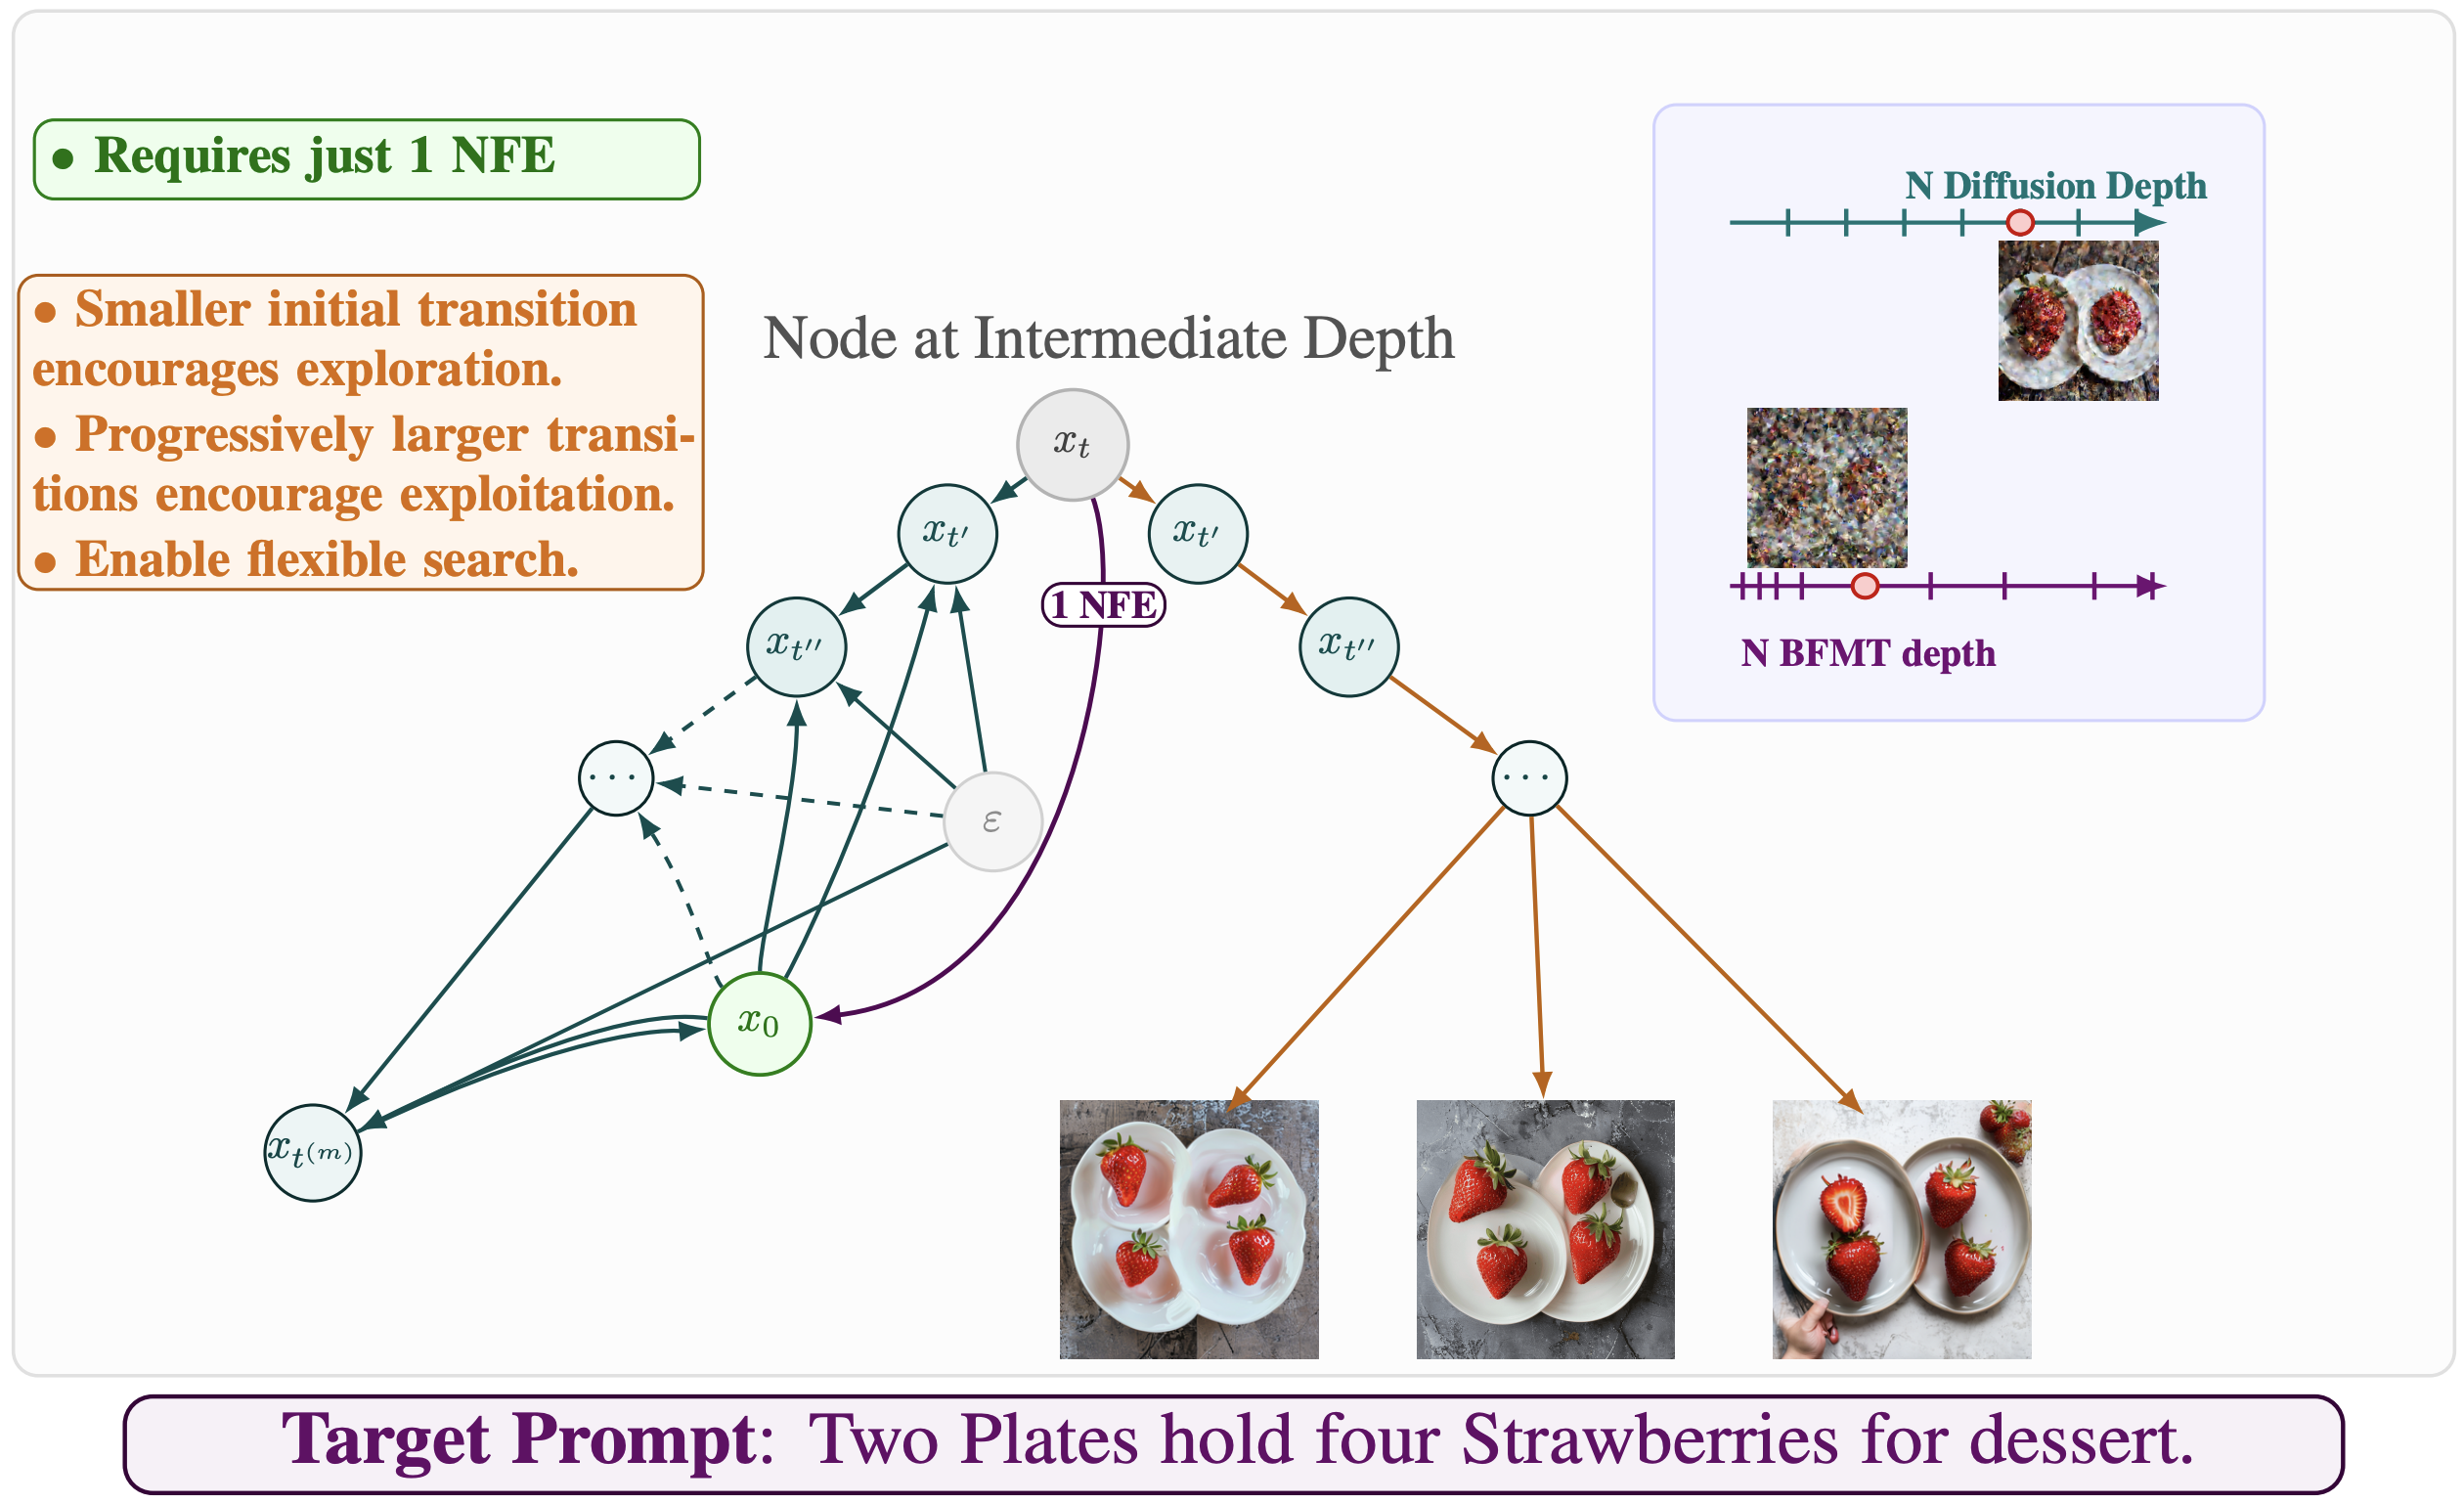
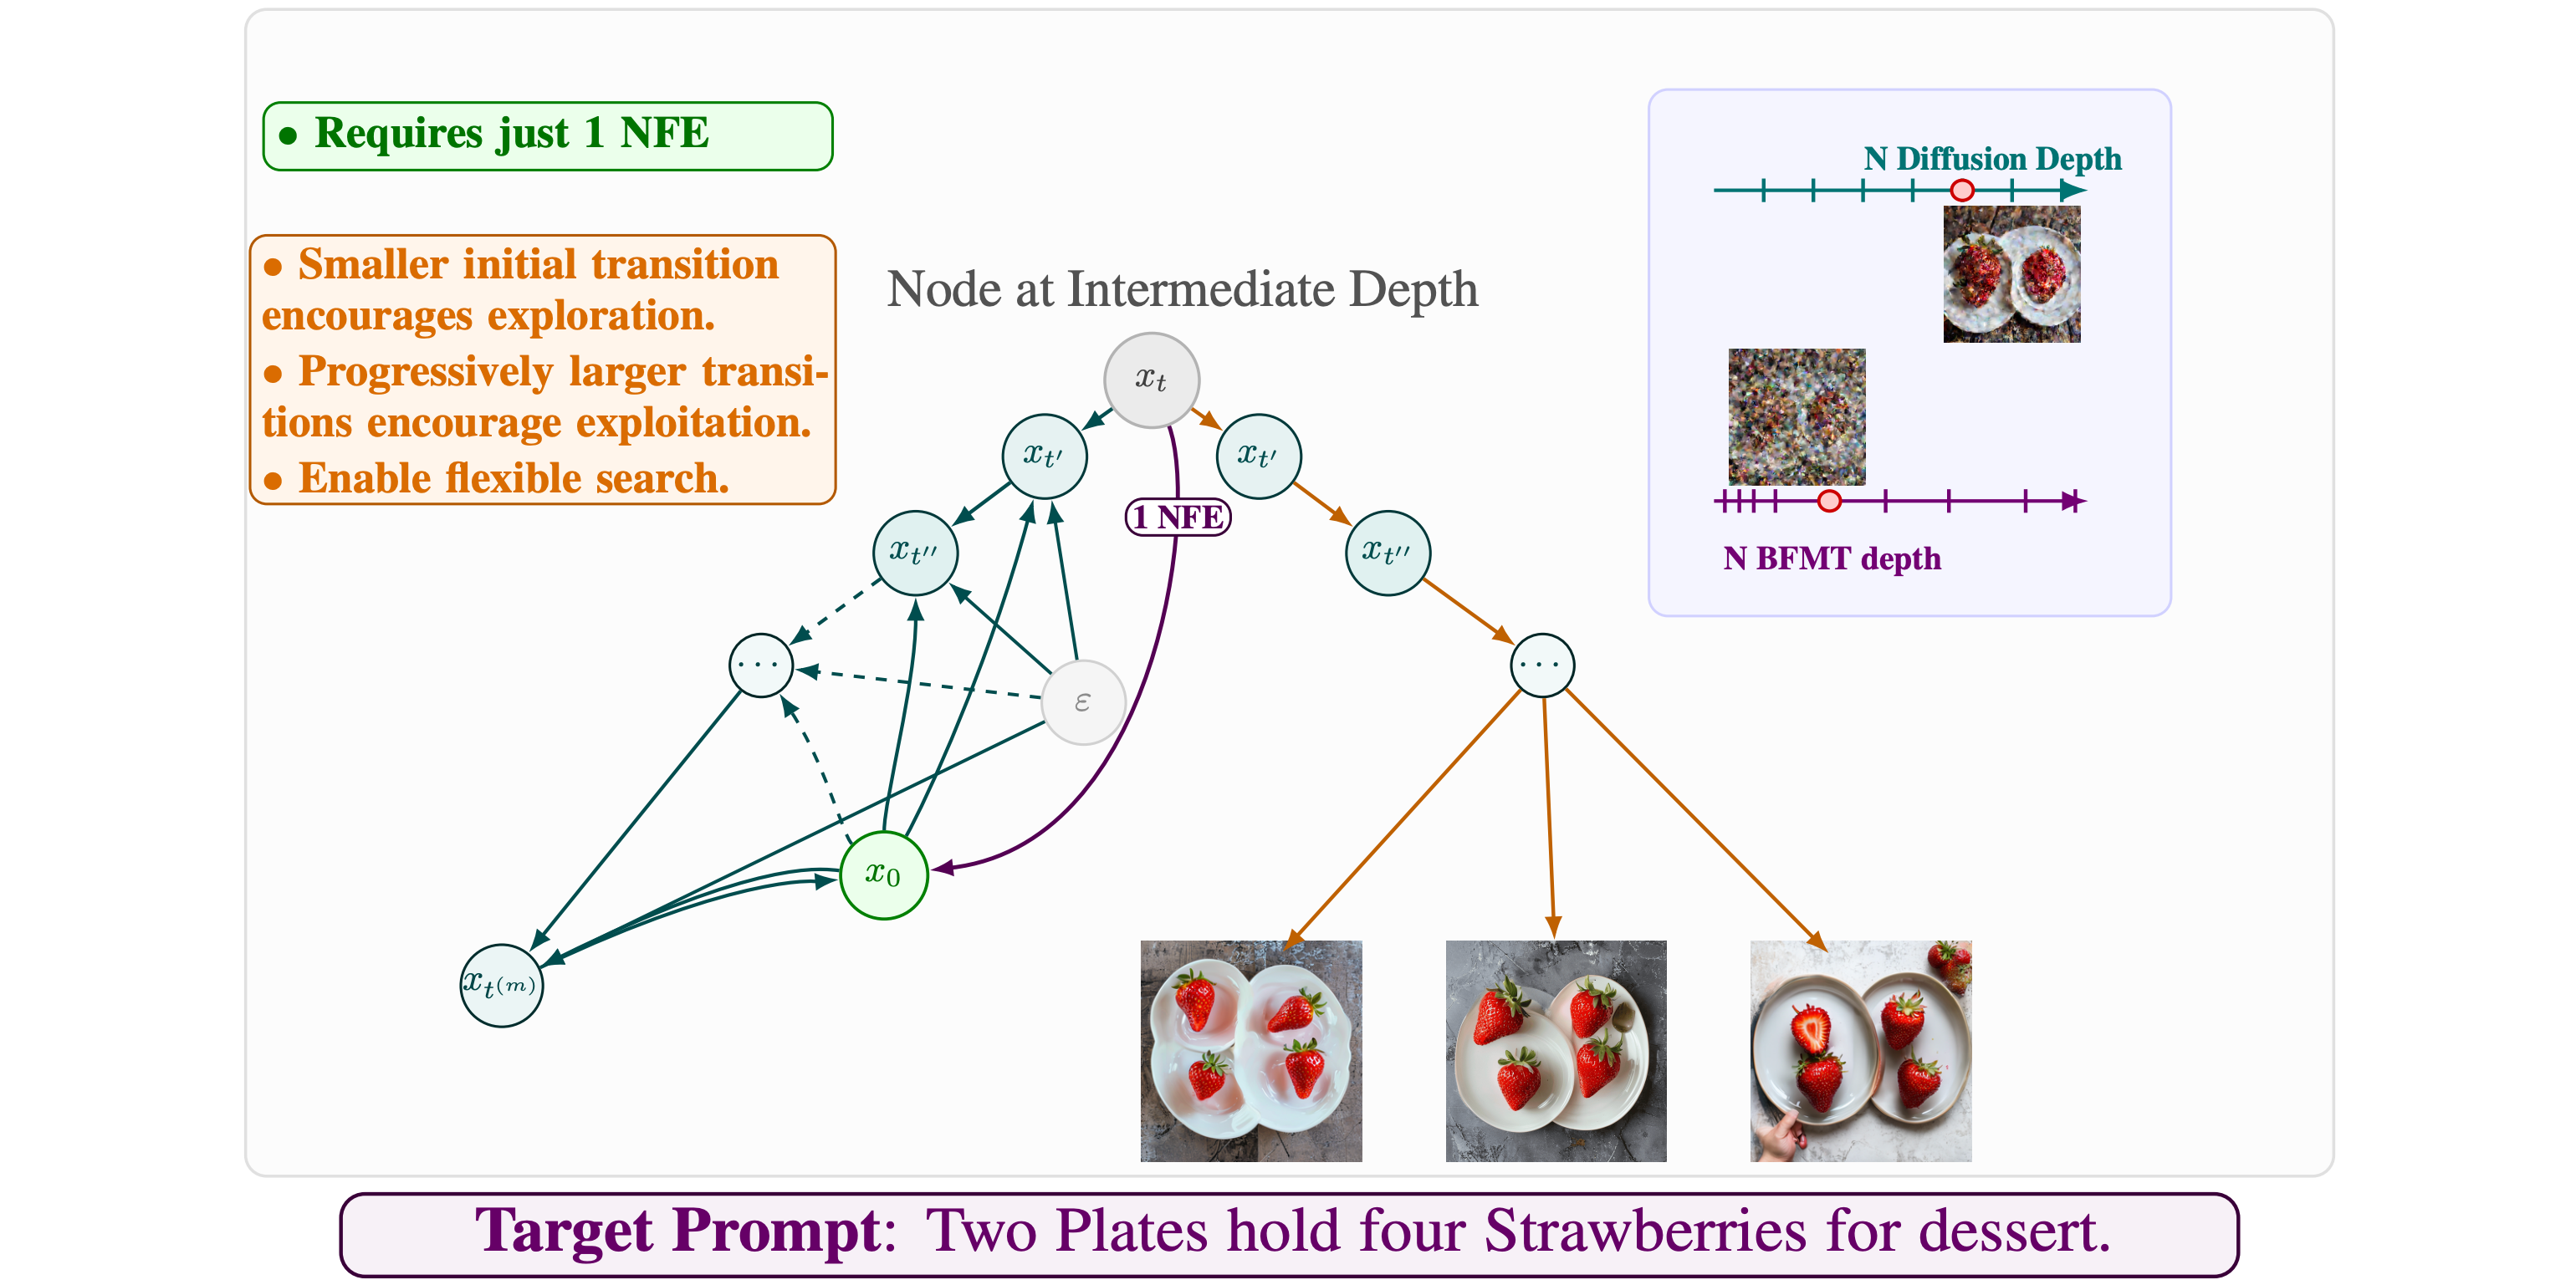
project fix7

diff --git a/_projects/5_project.md b/_projects/5_project.md
@@ -26,9 +26,9 @@ related_publications: false
 <style>
 .feedback-align-figs img {
     width: 100%;
-    height: 260px;
+    height: auto;
+    aspect-ratio: 2 / 1;
     object-fit: contain;
-    background-color: var(--global-bg-color);
 }
 </style>
 <div class="row feedback-align-figs">